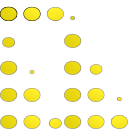
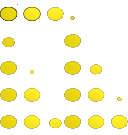
Loading text added

diff --git a/src/com/example/forestgame/MainActivity.java b/src/com/example/forestgame/MainActivity.java
@@ -18,13 +18,16 @@ import org.andengine.engine.options.resolutionpolicy.RatioResolutionPolicy;
 import org.andengine.entity.modifier.AlphaModifier;
 import org.andengine.entity.modifier.ScaleModifier;
 import org.andengine.entity.scene.Scene;
+import org.andengine.entity.sprite.AnimatedSprite;
 import org.andengine.entity.sprite.Sprite;
+import org.andengine.entity.util.FPSLogger;
 import org.andengine.opengl.font.StrokeFont;
 import org.andengine.opengl.texture.ITexture;
 import org.andengine.opengl.texture.TextureOptions;
 import org.andengine.opengl.texture.atlas.bitmap.BitmapTextureAtlas;
 import org.andengine.opengl.texture.atlas.bitmap.BitmapTextureAtlasTextureRegionFactory;
 import org.andengine.opengl.texture.region.TextureRegion;
+import org.andengine.opengl.texture.region.TiledTextureRegion;
 import org.andengine.ui.activity.SimpleBaseGameActivity;
 import org.andengine.util.color.Color;
 import org.andengine.util.debug.Debug;
@@ -98,6 +101,15 @@ public class MainActivity extends SimpleBaseGameActivity {
     private static ITexture GameOver;
     private static ITexture MainMenu;
     private static ITexture NewGame;
+    
+    private TextureRegion regionStatic;
+    private Sprite spriteStatic;
+    private BitmapTextureAtlas textureAnim;
+    private TiledTextureRegion regionAnim;
+    private AnimatedSprite  spriteAnim;
+     
+    private static int   TILED_SPRITE_COLUMNS  = 2;
+    private static int   TILED_SPRITE_ROWS  = 5;
     
     public Music mMusic;
     public Music mGameMusic;
@@ -178,11 +190,31 @@ public class MainActivity extends SimpleBaseGameActivity {
         	   , "background.jpg");
 	textureBackground = storage.getTexture("background.jpg");
 	
+	storage.createAtlas( MainActivity.mainActivity.getTextureManager()
+     	   , MainActivity.mainActivity
+     	   , "gfx_loading/"
+     	   , "gfx_static.png");
+	regionStatic = storage.getTexture("gfx_static.png");
+	
+	BitmapTextureAtlasTextureRegionFactory.setAssetBasePath("gfx_loading/");
+	textureAnim = new BitmapTextureAtlas(MainActivity.mainActivity.getTextureManager(), 512, 512, TextureOptions.BILINEAR_PREMULTIPLYALPHA);
+	regionAnim = BitmapTextureAtlasTextureRegionFactory.createTiledFromAsset(textureAnim, MainActivity.mainActivity,"gfx_anim.png", 0, 0, TILED_SPRITE_COLUMNS, TILED_SPRITE_ROWS);
+	mEngine.getTextureManager().loadTexture(textureAnim);
+	
+	spriteAnim = new AnimatedSprite(840, 890, regionAnim, MainActivity.mainActivity.getVertexBufferObjectManager());
+		
 	preLoadBackground = new Sprite( 0
 	          , 0
 	          , MainActivity.TEXTURE_WIDTH
 	          , MainActivity.TEXTURE_HEIGHT
 	          , MainActivity.mainActivity.textureBackground
+	          , MainActivity.mainActivity.getVertexBufferObjectManager());
+	
+	spriteStatic = new Sprite( MainActivity.TEXTURE_WIDTH / 4
+	          , MainActivity.TEXTURE_HEIGHT * 48 / 128
+	          , MainActivity.TEXTURE_WIDTH * 64 / 128
+	          , MainActivity.TEXTURE_HEIGHT * 20 / 128
+	          , MainActivity.mainActivity.regionStatic
 	          , MainActivity.mainActivity.getVertexBufferObjectManager());
 	
 	preLoadBackground.setBlendFunction(GL10.GL_SRC_ALPHA, GL10.GL_ONE_MINUS_SRC_COLOR);
@@ -191,12 +223,20 @@ public class MainActivity extends SimpleBaseGameActivity {
 
     @Override
     protected Scene onCreateScene() {
-	
+	this.mEngine.registerUpdateHandler(new FPSLogger());
 	preLoadScene = new Scene();
 	preLoadScene.setIgnoreUpdate(true);
 	/*preLoadScene.setBackgroundEnabled(true);
 	preLoadScene.setBackground(new Background(Color.GREEN));*/
 	preLoadScene.attachChild(preLoadBackground);
+	preLoadScene.attachChild(spriteStatic);
+	
+	spriteAnim.setWidth(94);
+	spriteAnim.setHeight(44);
+	spriteAnim.animate(150, true);
+	preLoadScene.attachChild(spriteAnim);
+	
+	
 	gameLoaded = false;
 	
 	final IAsyncCallback callback = new IAsyncCallback() {
